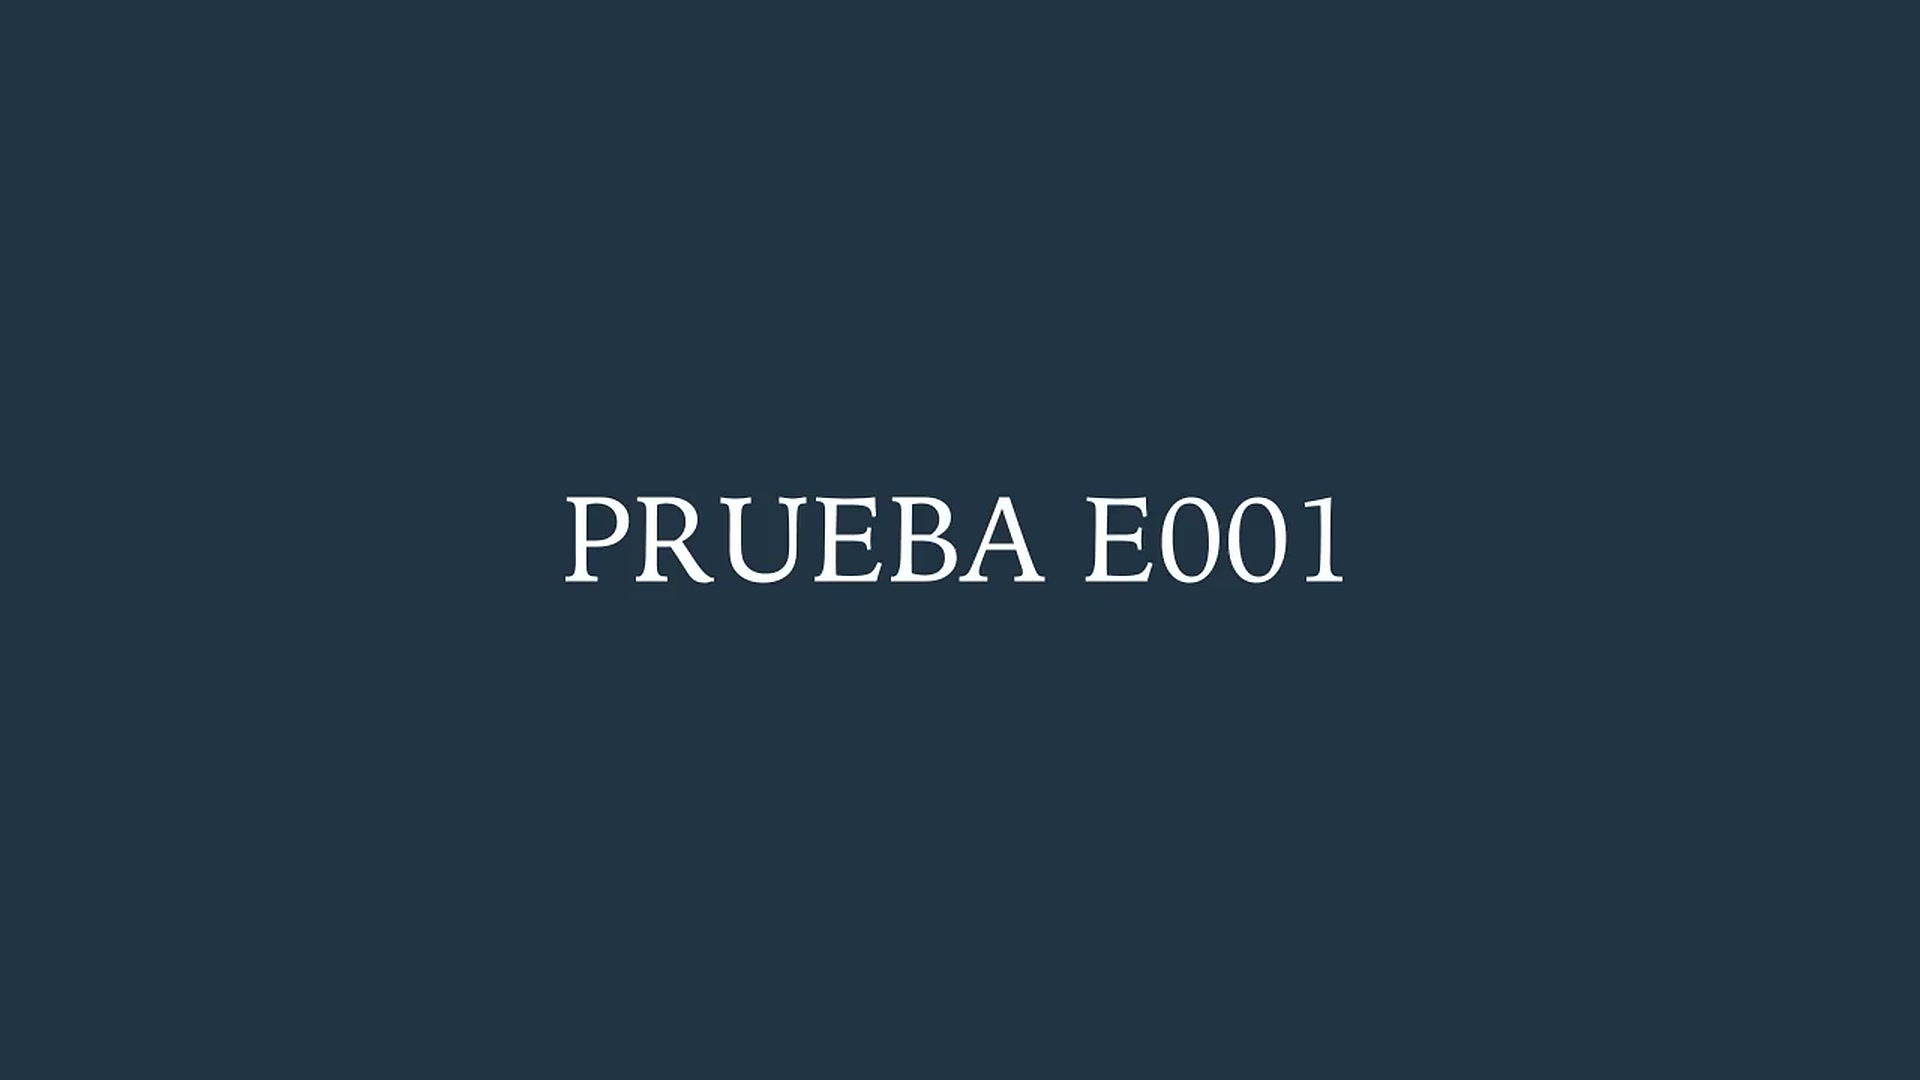
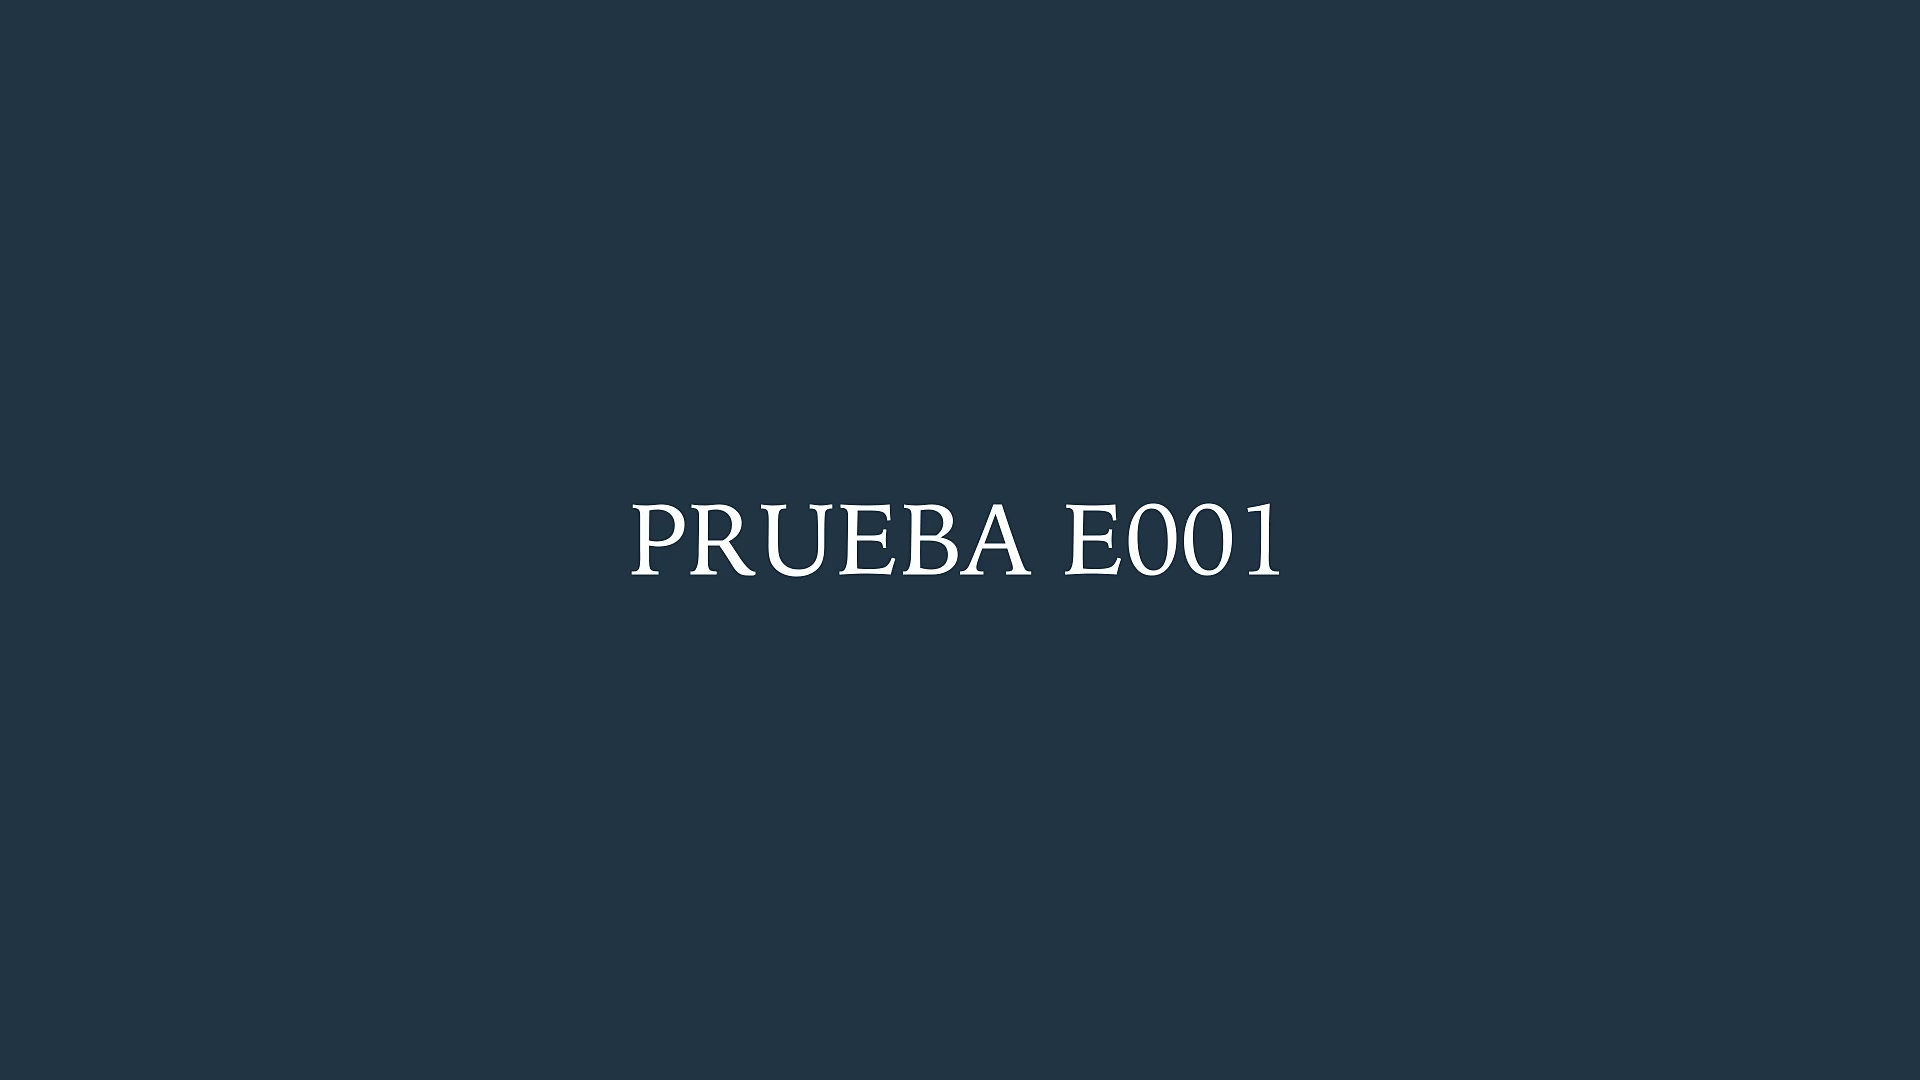
película por trozos, idiomas, selector y diagnóstico de scroll

Changed region(s): [[0.2812, 0.4583, 0.7188, 0.55]]

diff --git a/app.js b/app.js
@@ -1,8 +1,10 @@
 (async function(){
   // la página siempre arranca arriba del todo (el móvil a veces guarda un scroll anterior o lo mueven los iframes de pago)
+  const Q = new URLSearchParams(location.search); window.__diag = Q.has('diag');
   if ('scrollRestoration' in history) history.scrollRestoration = 'manual';
-  const arriba = () => window.scrollTo(0, 0);
-  arriba(); [200, 600, 1200].forEach(t => setTimeout(arriba, t));
+  window.__tocado = false; ['touchstart','wheel','keydown','pointerdown'].forEach(e => addEventListener(e, () => { window.__tocado = true; }, { passive: true, once: true }));
+  const arriba = () => { if (!window.__tocado && !window.__diag) window.scrollTo(0, 0); }; window.__arriba = arriba;
+  arriba(); [150, 500, 1000, 2000, 3500, 5000].forEach(t => setTimeout(arriba, t));
   const $ = id => document.getElementById(id);
   const [d, biblia, prog] = await Promise.all([
     fetch('episodios.json?'+Date.now()).then(r=>r.json()),
@@ -20,9 +22,45 @@
   $('pro-pct').textContent = fmtPct(pct);
   $('pro-lleno').style.width = (pct > 0 ? Math.max(pct, 0.6) : 0) + '%';
   $('pro-pie').textContent = `${num(capsHechos)} de ${num(biblia.capitulos)} capítulos · ${num(biblia.libros.length)} libros`;
+  // idiomas: textos de la página y pista de subtítulos de la película
+  const T = {
+    es:{titulo:'Película completa <span>de la Biblia.</span>',intro:'Cada día iremos sumando contenido según vayamos recibiendo apoyo para terminar el proyecto.',progreso:'Progreso del proyecto',caps:(h,t,l)=>`${h} de ${t} capítulos · ${l} libros`,apoyar:'Apoyar el proyecto',elige:'Elige el método de pago',acepto:'He leído y acepto las <a href="/condiciones" target="_blank" rel="noopener">condiciones del apoyo</a>.',con:'Apoyar con',otro:'otro'},
+    en:{titulo:'The complete film <span>of the Bible.</span>',intro:'Every day we add more, as support comes in, until the project is finished.',progreso:'Project progress',caps:(h,t,l)=>`${h} of ${t} chapters · ${l} books`,apoyar:'Support the project',elige:'Choose a payment method',acepto:'I have read and accept the <a href="/condiciones" target="_blank" rel="noopener">support terms</a>.',con:'Support with',otro:'other'},
+    pt:{titulo:'O filme completo <span>da Bíblia.</span>',intro:'Cada dia acrescentamos mais conteúdo, conforme chega o apoio, até terminar o projeto.',progreso:'Progresso do projeto',caps:(h,t,l)=>`${h} de ${t} capítulos · ${l} livros`,apoyar:'Apoiar o projeto',elige:'Escolhe a forma de pagamento',acepto:'Li e aceito as <a href="/condiciones" target="_blank" rel="noopener">condições do apoio</a>.',con:'Apoiar com',otro:'outro'},
+    fr:{titulo:'Le film complet <span>de la Bible.</span>',intro:'Chaque jour nous ajoutons du contenu, au rythme des soutiens, jusqu’à terminer le projet.',progreso:'Avancement du projet',caps:(h,t,l)=>`${h} sur ${t} chapitres · ${l} livres`,apoyar:'Soutenir le projet',elige:'Choisissez le mode de paiement',acepto:'J’ai lu et j’accepte les <a href="/condiciones" target="_blank" rel="noopener">conditions du soutien</a>.',con:'Soutenir avec',otro:'autre'},
+    de:{titulo:'Der komplette Film <span>der Bibel.</span>',intro:'Jeden Tag kommt neuer Inhalt hinzu, je nach Unterstützung, bis das Projekt fertig ist.',progreso:'Fortschritt des Projekts',caps:(h,t,l)=>`${h} von ${t} Kapiteln · ${l} Bücher`,apoyar:'Projekt unterstützen',elige:'Zahlungsart wählen',acepto:'Ich habe die <a href="/condiciones" target="_blank" rel="noopener">Bedingungen</a> gelesen und akzeptiere sie.',con:'Unterstützen mit',otro:'andere'},
+    zh:{titulo:'圣经 <span>完整电影。</span>',intro:'我们每天都会随着支持的到来增加内容，直到项目完成。',progreso:'项目进度',caps:(h,t,l)=>`${t} 章中已完成 ${h} 章 · ${l} 卷`,apoyar:'支持这个项目',elige:'选择支付方式',acepto:'我已阅读并接受<a href="/condiciones" target="_blank" rel="noopener">支持条款</a>。',con:'支持',otro:'其他'},
+    ru:{titulo:'Полный фильм <span>по Библии.</span>',intro:'Каждый день мы добавляем новый материал по мере поддержки, пока проект не будет завершён.',progreso:'Прогресс проекта',caps:(h,t,l)=>`${h} из ${t} глав · ${l} книг`,apoyar:'Поддержать проект',elige:'Выберите способ оплаты',acepto:'Я прочитал и принимаю <a href="/condiciones" target="_blank" rel="noopener">условия поддержки</a>.',con:'Поддержать на',otro:'другая'}
+  };
+  const sel = $('idioma');
+  let lang = (() => { try { const g = localStorage.getItem('idioma'); if (g && T[g]) return g; } catch(_){} const n = (navigator.language||'es').slice(0,2).toLowerCase(); return T[n] ? n : 'es'; })();
+  function aplica(){
+    const t = T[lang]; document.documentElement.lang = lang; sel.value = lang;
+    $('t-titulo').innerHTML = t.titulo; $('t-intro').textContent = t.intro; $('t-progreso').textContent = t.progreso;
+    $('apoyar').textContent = t.apoyar; $('t-elige').textContent = t.elige; $('t-acepto').innerHTML = t.acepto;
+    const otro = $('otro'); if (otro) otro.placeholder = t.otro;
+    $('pro-pie').textContent = t.caps(num(capsHechos), num(biblia.capitulos), num(biblia.libros.length));
+    window.__idioma = lang; window.dispatchEvent(new CustomEvent('idioma', { detail: lang }));
+    subtitulos(lang);
+  }
+  sel.onchange = () => { lang = sel.value; try { localStorage.setItem('idioma', lang); } catch(_){} aplica(); };
+
+  // la película: emisión por trozos (HLS). Safari la lee sola; el resto con hls.js
   const v = $('pelicula'), play = $('play');
+  let hls = null;
   v.poster = url(d.pelicula.poster);
-  if (d.pelicula.video) { v.src = url(d.pelicula.video); } else { play.hidden = true; v.removeAttribute('controls'); }
+  function subtitulos(l){
+    if (hls) { const i = hls.subtitleTracks.findIndex(t => t.lang === l); hls.subtitleTrack = (l === 'es') ? -1 : i; return; }
+    [...v.textTracks].forEach(tt => { tt.mode = (l !== 'es' && tt.language === l) ? 'showing' : 'disabled'; });
+  }
+  if (d.pelicula.video && !Q.has('sinvideo')) {
+    const src = url(d.pelicula.video);
+    if (src.endsWith('.m3u8') && window.Hls && Hls.isSupported()) {
+      hls = new Hls({ enableWebVTT: true }); hls.loadSource(src); hls.attachMedia(v);
+      hls.on(Hls.Events.MANIFEST_PARSED, () => subtitulos(lang));
+    } else { v.src = src; v.addEventListener('loadedmetadata', () => subtitulos(lang), { once: true }); }
+  } else { play.hidden = true; v.removeAttribute('controls'); }
+  aplica();
   play.onclick = () => { play.hidden = true; v.play(); };
   v.addEventListener('pause', ()=>{ if (!v.ended) play.hidden = false; });
   v.addEventListener('ended', ()=>{ play.hidden = false; });

diff --git a/apoyo.js b/apoyo.js
@@ -1,6 +1,6 @@
 (function(){
   const PK = 'pk_live_51UC5QCAeAJ1ecB8ZIMliN6fE9geFRi0kGrT80F07h1ZalAnsnvby7QQ8xncdWgHEy3n2ZRNHnescnqOv2te3P1Z600ZWdeNwnl';
-  if (!window.Stripe) return;
+  if (!window.Stripe || new URLSearchParams(location.search).has('sinpagos')) return;
   const stripe = Stripe(PK);
   const $ = id => document.getElementById(id);
   const boton = $('apoyar'), pagar = $('pagar'), aviso = $('aviso'), otro = $('otro'), marcas = $('marcas');
@@ -15,6 +15,7 @@
   const fuentes = [{ cssSrc: 'https://fonts.googleapis.com/css2?family=EB+Garamond:wght@400;500&display=swap' }];
   const abre = z => z.classList.add('abierto'), cierra = z => z.classList.remove('abierto');
   function nota(t, suave){ aviso.textContent = t; aviso.classList.toggle('suave', !!suave); aviso.hidden = false; }
+  window.addEventListener('idioma', ev => { const con = {es:'Apoyar con',en:'Support with',pt:'Apoiar com',fr:'Soutenir avec',de:'Unterstützen mit',zh:'支持',ru:'Поддержать на'}[ev.detail] || 'Apoyar con'; window.__con = con; pagar.textContent = con + ' ' + eur(); });
   fetch('/api/salud').then(r=>r.json()).then(s => { servidorOk = !!s.ok; }).catch(() => { servidorOk = false; });
 
   // todo precargado: cada forma de pago vive en su propia caja plegada y solo se abre la elegida
@@ -24,23 +25,23 @@
   const els = { apple: stripe.elements(Object.assign({ amount: cts() }, base)), google: stripe.elements(Object.assign({ amount: cts() }, base)), tarjeta: stripe.elements(Object.assign({ amount: cts() }, base)) };
   const exApple = els.apple.create('expressCheckout', { buttonHeight: 54, buttonTheme: { applePay: 'black' }, layout: { maxColumns: 1, overflow: 'never' }, paymentMethods: Object.assign({ applePay: 'always', googlePay: 'never' }, nunca) });
   exApple.mount('#expressApple');
-  exApple.on('ready', ev => { disponible.apple = !!(ev.availablePaymentMethods||{}).applePay; pinta(); });
+  exApple.on('ready', ev => { disponible.apple = !!(ev.availablePaymentMethods||{}).applePay; pinta(); window.__arriba && window.__arriba(); });
   exApple.on('click', ev => { if (aceptado()) ev.resolve(); });
   exApple.on('confirm', () => confirma());
   const exGoogle = els.google.create('expressCheckout', { buttonHeight: 54, buttonTheme: { googlePay: 'black' }, layout: { maxColumns: 1, overflow: 'never' }, paymentMethods: Object.assign({ applePay: 'never', googlePay: 'always' }, nunca) });
   exGoogle.mount('#expressGoogle');
-  exGoogle.on('ready', ev => { disponible.google = !!(ev.availablePaymentMethods||{}).googlePay; pinta(); });
+  exGoogle.on('ready', ev => { disponible.google = !!(ev.availablePaymentMethods||{}).googlePay; pinta(); window.__arriba && window.__arriba(); });
   exGoogle.on('click', ev => { if (aceptado()) ev.resolve(); });
   exGoogle.on('confirm', () => confirma());
   const pago = els.tarjeta.create('payment', { layout: 'tabs', wallets: { applePay: 'never', googlePay: 'never' } });
-  pago.mount('#tarjeta');
+  pago.mount('#tarjeta'); pago.on('ready', () => { window.__arriba && window.__arriba(); });
   setTimeout(() => { if (disponible.apple === null) disponible.apple = false; if (disponible.google === null) disponible.google = false; pinta(); }, 8000);
   function pinta(){ iconos.forEach(b => b.classList.toggle('no', disponible[b.dataset.m] === false)); }
 
   function fija(v, desdeChip){
     importe = Math.max(0.5, Math.min(1000, Math.round((Number(v) || 0.5) * 100) / 100));
     chips.forEach(b => b.classList.toggle('on', desdeChip && Number(b.dataset.v) === importe));
-    Object.values(els).forEach(e => e.update({ amount: cts() })); pagar.textContent = 'Apoyar con ' + eur();
+    Object.values(els).forEach(e => e.update({ amount: cts() })); pagar.textContent = (window.__con || 'Apoyar con') + ' ' + eur();
   }
   chips.forEach(b => b.onclick = () => { otro.value = ''; fija(b.dataset.v, true); });
   otro.oninput = () => { if (otro.value) fija(otro.value, false); };

diff --git a/index.html b/index.html
@@ -13,15 +13,18 @@
 <link rel="preconnect" href="https://fonts.googleapis.com">
 <link rel="preconnect" href="https://fonts.gstatic.com" crossorigin>
 <link href="https://fonts.googleapis.com/css2?family=Cinzel:wght@500;600&family=Cormorant+Garamond:ital,wght@0,500;0,600;1,500&family=EB+Garamond:ital,wght@0,400;0,500;1,400&display=swap" rel="stylesheet">
-<link rel="stylesheet" href="estilo.css?v=1788566751">
+<link rel="stylesheet" href="estilo.css?v=1788567503">
 </head>
 <body>
 <main>
   <section class="hero">
     <header class="cabecera">
+      <select class="idioma" id="idioma" aria-label="Idioma">
+        <option value="es">Español</option><option value="en">English</option><option value="pt">Português</option><option value="fr">Français</option><option value="de">Deutsch</option><option value="zh">中文</option><option value="ru">Русский</option>
+      </select>
       <div class="marca">Biblia Film</div>
-      <h1>Película completa <span>de la Biblia.</span></h1>
-      <p class="intro">Cada día iremos sumando contenido según vayamos recibiendo apoyo para terminar el proyecto.</p>
+      <h1 id="t-titulo">Película completa <span>de la Biblia.</span></h1>
+      <p class="intro" id="t-intro">Cada día iremos sumando contenido según vayamos recibiendo apoyo para terminar el proyecto.</p>
 
     </header>
     <div class="peli">
@@ -30,7 +33,7 @@
         <button class="play" id="play" aria-label="Ver"></button>
       </div>
       <div class="progreso">
-        <div class="pro-cab"><span>Progreso del proyecto</span><strong id="pro-pct">0 %</strong></div>
+        <div class="pro-cab"><span id="t-progreso">Progreso del proyecto</span><strong id="pro-pct">0 %</strong></div>
         <div class="barra"><div class="lleno" id="pro-lleno"></div></div>
         <div class="pro-pie" id="pro-pie"></div>
       </div>
@@ -39,7 +42,7 @@
     <div class="texto">
       <div class="apoyo" id="apoyo">
         <button class="boton" id="apoyar" type="button">Apoyar el proyecto</button>
-        <div class="desplegable" id="zEligir"><div><p class="elige">Elige el método de pago</p></div></div>
+        <div class="desplegable" id="zEligir"><div><p class="elige" id="t-elige">Elige el método de pago</p></div></div>
         <div class="desplegable marcasCaja" id="zMarcas"><div><div class="marcas" id="marcas" role="radiogroup" aria-label="Forma de pago">
           <button type="button" data-m="apple" aria-label="Apple Pay"><img src="img/apple-pay.svg" alt=""></button>
           <button type="button" data-m="google" aria-label="Google Pay"><img src="img/google-pay.svg" alt=""></button>
@@ -53,7 +56,7 @@
             <button type="button" data-v="20">20 €</button>
             <label class="otro"><span>€</span><input id="otro" type="number" min="0.5" max="1000" step="0.5" placeholder="otro" inputmode="decimal"></label>
           </div>
-          <label class="acepto"><input type="checkbox" id="acepto"><span>He leído y acepto las <a href="/condiciones" target="_blank" rel="noopener">condiciones del apoyo</a>.</span></label>
+          <label class="acepto"><input type="checkbox" id="acepto"><span id="t-acepto">He leído y acepto las <a href="/condiciones" target="_blank" rel="noopener">condiciones del apoyo</a>.</span></label>
         </div></div>
         <div class="desplegable" id="zApple"><div class="detalle-int"><div id="expressApple"></div></div></div>
         <div class="desplegable" id="zGoogle"><div class="detalle-int"><div id="expressGoogle"></div></div></div>
@@ -63,8 +66,9 @@
     </div>
   </section>
 </main>
+<script src="https://cdnjs.cloudflare.com/ajax/libs/hls.js/1.5.15/hls.min.js"></script>
 <script src="https://js.stripe.com/v3/"></script>
-<script src="app.js?v=1788566751"></script>
-<script src="apoyo.js?v=1788566751"></script>
+<script src="app.js?v=1788567503"></script>
+<script src="apoyo.js?v=1788567503"></script>
 </body>
 </html>

diff --git a/estilo.css b/estilo.css
@@ -7,10 +7,11 @@
   --txt:"EB Garamond","Iowan Old Style",Palatino,Georgia,serif;
 }
 *{box-sizing:border-box;margin:0;padding:0}
-html{background:var(--bg);color-scheme:light}
+html{background:var(--bg);color-scheme:light;overflow-anchor:none}
 body{background:var(--bg);color:var(--tinta);font-family:var(--txt);font-size:19px;line-height:1.5;-webkit-font-smoothing:antialiased}
 main{max-width:560px;margin:0 auto;padding:calc(16px + env(safe-area-inset-top)) 18px calc(48px + env(safe-area-inset-bottom))}
-.cabecera{text-align:center}
+.cabecera{text-align:center;position:relative}
+.idioma{position:absolute;right:0;top:-6px;font-family:var(--txt);font-size:14px;color:var(--dim);background:var(--bg);border:1px solid var(--line);border-radius:999px;padding:5px 10px;cursor:pointer}
 .texto{text-align:center}
 .marca{font-family:var(--cap);font-weight:600;font-size:13px;letter-spacing:.3em;color:var(--acc);text-transform:uppercase}
 h1{font-family:var(--disp);font-weight:600;font-size:44px;line-height:1.02;letter-spacing:-.01em;margin-top:16px;color:var(--tinta)}
@@ -84,7 +85,8 @@ h1 span{font-style:italic;font-weight:500;color:var(--acc)}
   .hero{display:block}
   .peli{margin:0 auto;width:min(100%, calc(64vh * 16 / 9))}
   .marco{border-radius:22px}
-  .cabecera{text-align:center}
+  .cabecera{text-align:center;position:relative}
+.idioma{position:absolute;right:0;top:-6px;font-family:var(--txt);font-size:14px;color:var(--dim);background:var(--bg);border:1px solid var(--line);border-radius:999px;padding:5px 10px;cursor:pointer}
   .texto{margin-top:26px;text-align:center}
   h1{font-size:50px;margin-top:12px}
   .intro{margin:12px auto 0;font-size:19px;max-width:560px}

diff --git a/gracias.html b/gracias.html
@@ -4,7 +4,7 @@
 <meta charset="utf-8"><meta name="viewport" content="width=device-width, initial-scale=1">
 <title>Gracias · Biblia Film</title>
 <link href="https://fonts.googleapis.com/css2?family=Cinzel:wght@600&family=Cormorant+Garamond:ital,wght@0,600;1,500&family=EB+Garamond:wght@400&display=swap" rel="stylesheet">
-<link rel="stylesheet" href="estilo.css?v=1788566751">
+<link rel="stylesheet" href="estilo.css?v=1788567503">
 <style>.gracias{min-height:100vh;display:flex;align-items:center;justify-content:center;text-align:center;padding:40px 22px}.gracias h1{font-size:44px}.gracias p{margin-top:16px;color:var(--dim)}.gracias a{display:inline-block;margin-top:26px;color:var(--acc);font-family:var(--cap);letter-spacing:.12em;text-transform:uppercase;font-size:14px;text-decoration:none}</style>
 </head>
 <body><div class="gracias"><div><div class="marca">Biblia Film</div><h1 id="t">Gracias.</h1><p id="p">Con esto la película sigue creciendo. Cada clip nuevo, aquí.</p><a href="/">Volver a la película</a></div></div>

diff --git a/condiciones.html b/condiciones.html
@@ -5,7 +5,7 @@
 <title>Condiciones del apoyo · Biblia Film</title>
 <meta name="robots" content="noindex">
 <link href="https://fonts.googleapis.com/css2?family=Cinzel:wght@600&family=Cormorant+Garamond:wght@600&family=EB+Garamond:ital,wght@0,400;0,500;1,400&display=swap" rel="stylesheet">
-<link rel="stylesheet" href="estilo.css?v=1788566751">
+<link rel="stylesheet" href="estilo.css?v=1788567503">
 <style>.legal{max-width:680px;margin:0 auto;padding:40px 22px 80px}.legal h1{font-size:40px;margin-top:10px}.legal h2{font-family:var(--disp);font-size:24px;margin-top:28px}.legal p{margin-top:10px;color:var(--dim)}.legal a{color:var(--acc)}.legal .volver{display:inline-block;margin-top:34px;font-family:var(--cap);letter-spacing:.12em;text-transform:uppercase;font-size:13px;text-decoration:none}</style>
 </head>
 <body><main class="legal">
